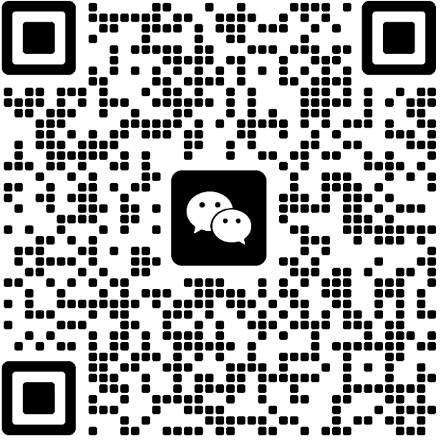
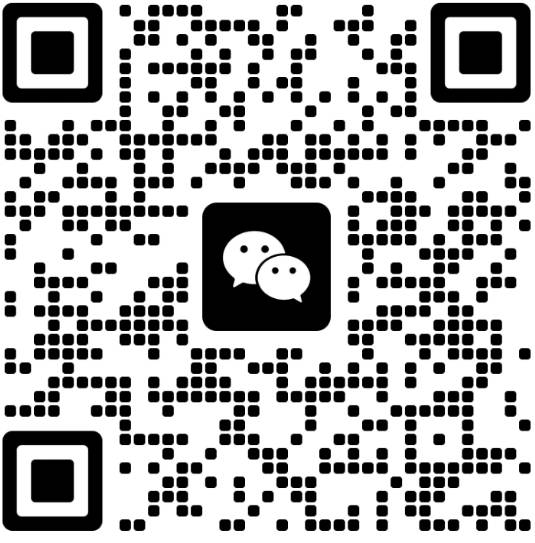
更新微信交流群二维码 + 新增开发路线图文档

diff --git a/docs/开发路线图.md b/docs/开发路线图.md
@@ -1,0 +1,118 @@
+# 启程典（RiseDock）开发路线图
+
+> 最后更新：2026-04-25
+
+## 当前状态
+
+| 项目 | 信息 |
+|------|------|
+| 当前版本 | v1.0.3.1（紧急修复版） |
+| 技术栈 | React 18 + TypeScript + Tauri 2.x + Rust + Zustand + TailwindCSS v4 |
+| GitHub | https://github.com/RiseDock/RiseDock |
+| 授权方式 | 机器码 + 激活码（本地验证） |
+
+### 已完成功能（v1.0.3）
+
+- 场景管理（创建/切换/删除）
+- 启动项管理（拖拽排序、批量添加）
+- 启动执行（应用/文件/文件夹/网址/延迟启动）
+- Ctrl+K 快速搜索
+- 全局快捷键唤起
+- 授权系统（机器码采集 → 激活码验证 → 本地持久化）
+- 最小化到托盘
+- 置顶固定
+- 批量导入/导出 JSON
+- 自定义标题栏
+
+---
+
+## v1.1.0 — 授权体验优化 + 自动更新
+
+| 功能 | 说明 | 优先级 |
+|------|------|--------|
+| 自动更新 | `@tauri-apps/plugin-updater` + GitHub Releases，免签名方案 | P0 |
+| 到期前提醒 | 7天/3天/1天三级提醒弹窗 | P1 |
+| 授权续期 | 到期前可输入新授权码续期 | P1 |
+| 授权信息导出 | 导出机器码+授权状态，方便换机迁移 | P2 |
+
+**预计工作量**：2-3天
+
+### 自动更新方案（已确认）
+
+- 使用 `@tauri-apps/plugin-updater` 插件
+- 后端对接 GitHub Releases API
+- 不购买代码签名证书，采用免签名方案
+- 用户首次启动时检查更新，后台静默下载，下次启动提示安装
+
+---
+
+## v1.2.0 — 体验增强
+
+| 功能 | 说明 | 优先级 |
+|------|------|--------|
+| 主题切换 | 深色/浅色/跟随系统 | P0 |
+| 启动项图标增强 | 自动提取 exe/lnk 图标，支持自定义图标 | P0 |
+| 启动项分组 | 场景内支持文件夹/分组管理启动项 | P1 |
+| 启动统计 | 记录每个启动项的使用次数和最近启动时间 | P1 |
+| 场景缩略图 | 切换场景时展示缩略预览 | P2 |
+| 7天免费试用 | 未激活用户可免费体验7天全部功能 | P2 |
+
+**预计工作量**：5-7天
+
+---
+
+## v1.3.0 — 在线能力
+
+| 功能 | 说明 | 优先级 |
+|------|------|--------|
+| 云同步 | 场景数据同步到云端，多设备共享 | P0 |
+| 账号系统 | 注册/登录，绑定设备 | P0 |
+| 远程授权管理 | 服务端校验授权，支持远程吊销 | P1 |
+| 分享场景 | 公开场景模板，其他用户可导入 | P2 |
+
+**预计工作量**：7-10天（需要后端服务）
+
+**注意**：此版本需要搭建后端服务，技术选型待定（可选：Cloudflare Workers / Vercel Serverless / 自建 VPS）。
+
+---
+
+## v2.0.0 — 商业化
+
+| 功能 | 说明 | 优先级 |
+|------|------|--------|
+| 订阅制 | 月付/年付，替代一次性激活码 | P0 |
+| 多端支持 | macOS / Linux 版本（Tauri 跨平台） | P0 |
+| 企业版 | 批量授权、统一管理后台 | P1 |
+| 插件系统 | 第三方插件扩展功能 | P2 |
+| 代码签名 | 购买证书，消除 SmartScreen / UAC 警告 | P1 |
+
+**预计工作量**：2-4周
+
+---
+
+## 推荐执行顺序
+
+### 本周
+1. **v1.1.0 自动更新** — 方案已确认，零成本可用，优先让用户能自动升级
+
+### 1-2周内
+2. **v1.1.0 授权体验** — 到期提醒 + 续期 + 导出
+3. **v1.2.0 主题切换** — 用户体感提升最大
+4. **v1.2.0 图标增强** — 视觉体验关键
+
+### 后续
+5. **v1.2.0 分组 + 统计** — 功能完善
+6. **v1.3.0 云同步** — 等用户量起来再投入
+7. **v2.0.0 商业化** — 产品成熟后推进
+
+---
+
+## 技术债务
+
+| 项目 | 说明 | 状态 |
+|------|------|------|
+| 代码签名 | 当前无签名，SmartScreen 会拦截 | 待解决（v2.0） |
+| 前端 item_type 映射 | database.ts 的 item_type 列 vs 前端 type 字段 | 已有迁移逻辑 |
+| ACL 权限 | capabilities/default.json 需要显式添加 execute 权限 | 已修复 |
+| 单元测试 | 当前无测试覆盖 | 待补充 |
+| CI/CD | 无自动化构建/发布流程 | 待搭建 |
